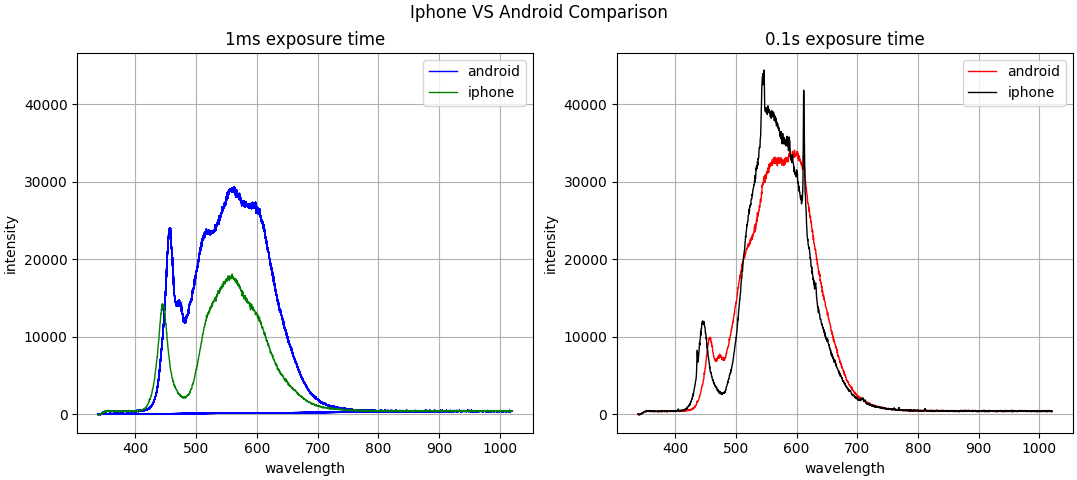
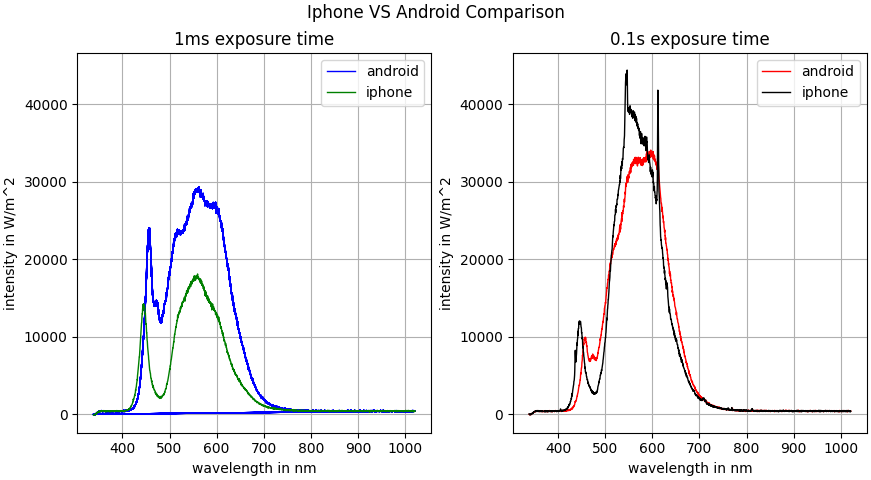
changed axis lables and added new graph gvsng

diff --git a/graphing.py b/graphing.py
@@ -11,107 +11,107 @@ import matplotlib.pyplot as plt
 
 #--------------------------------------------------------
 # Group 1 android vs iphone data
-# android_data_1ms = pd.read_csv('Formatted_raw_data\\android_1ms.txt', sep="\t", header=None, names = ["Wavelength", "Intensity"])
-# android_data = pd.read_csv('Formatted_raw_data\\android.txt', sep="\t", header=None, names = ["Wavelength", "Intensity"])
-# iphone_data_1ms = pd.read_csv('Formatted_raw_data\\iphone_1ms.txt', sep="\t", header=None, names = ["Wavelength", "Intensity"])
-# iphone_data = pd.read_csv('Formatted_raw_data\\iphone.txt', sep="\t", header=None, names = ["Wavelength", "Intensity"])
+android_data_1ms = pd.read_csv('Formatted_raw_data\\android_1ms.txt', sep="\t", header=None, names = ["Wavelength", "Intensity"])
+android_data = pd.read_csv('Formatted_raw_data\\android.txt', sep="\t", header=None, names = ["Wavelength", "Intensity"])
+iphone_data_1ms = pd.read_csv('Formatted_raw_data\\iphone_1ms.txt', sep="\t", header=None, names = ["Wavelength", "Intensity"])
+iphone_data = pd.read_csv('Formatted_raw_data\\iphone.txt', sep="\t", header=None, names = ["Wavelength", "Intensity"])
 
-# plt.subplots(layout="constrained")
-# plt.suptitle("Iphone VS Android Comparison")
+plt.subplots(layout="constrained")
+plt.suptitle("Iphone VS Android Comparison")
 
 
-# ax1 = plt.subplot(121)
-# plt.plot(android_data_1ms["Wavelength"], android_data_1ms["Intensity"], c='Blue',linewidth = 1, label = "android")
-# plt.plot(iphone_data_1ms["Wavelength"], iphone_data_1ms["Intensity"], c='Green',linewidth = 1, label = "iphone")
-# plt.xlabel("wavelength")
-# plt.ylabel("intensity")
-# plt.title("1ms exposure time")
-# plt.grid()
-# plt.legend()
+ax1 = plt.subplot(121)
+plt.plot(android_data_1ms["Wavelength"], android_data_1ms["Intensity"], c='Blue',linewidth = 1, label = "android")
+plt.plot(iphone_data_1ms["Wavelength"], iphone_data_1ms["Intensity"], c='Green',linewidth = 1, label = "iphone")
+plt.xlabel("wavelength in nm")
+plt.ylabel("intensity in W/m^2")
+plt.title("1ms exposure time")
+plt.grid()
+plt.legend()
 
-# ax2 = plt.subplot(122, sharey=ax1, sharex=ax1)
-# plt.plot(android_data["Wavelength"], android_data["Intensity"], c='Red',linewidth = 1, label = "android")
-# plt.plot(iphone_data["Wavelength"], iphone_data["Intensity"], c='Black',linewidth = 1, label = "iphone")
-# plt.xlabel("wavelength")
-# plt.ylabel("intensity")
-# plt.title("0.1s exposure time")
-# plt.legend()
-# plt.grid()
-# plt.show()
+ax2 = plt.subplot(122, sharey=ax1, sharex=ax1)
+plt.plot(android_data["Wavelength"], android_data["Intensity"], c='Red',linewidth = 1, label = "android")
+plt.plot(iphone_data["Wavelength"], iphone_data["Intensity"], c='Black',linewidth = 1, label = "iphone")
+plt.xlabel("wavelength in nm")
+plt.ylabel("intensity in W/m^2")
+plt.title("0.1s exposure time")
+plt.legend()
+plt.grid()
+plt.show()
 #--------------------------------------------------------
 
 
 #--------------------------------------------------------
 # Group 2 base noise fiber VS no fiber comparison
-# base_noise_fiber = pd.read_csv('Formatted_raw_data\\base_noise_no_fiber.txt', sep="\t", header=None, names = ["Wavelength", "Intensity"])
-# base_noise_no_fiber = pd.read_csv('Formatted_raw_data\\base_noise_with_fiber.txt', sep="\t", header=None, names = ["Wavelength", "Intensity"])
+base_noise_fiber = pd.read_csv('Formatted_raw_data\\base_noise_no_fiber.txt', sep="\t", header=None, names = ["Wavelength", "Intensity"])
+base_noise_no_fiber = pd.read_csv('Formatted_raw_data\\base_noise_with_fiber.txt', sep="\t", header=None, names = ["Wavelength", "Intensity"])
 
 
-# plt.plot(base_noise_fiber["Wavelength"], base_noise_fiber["Intensity"], c='Blue',linewidth = 0.5, label = "base noise with fiber")
-# plt.plot(base_noise_no_fiber["Wavelength"], base_noise_no_fiber["Intensity"], c='Green',linewidth = 0.5, label = "base noise no fiber")
-# plt.xlabel("wavelength")
-# plt.ylabel("intensity")
-# plt.title("0.1s exposure time for base noise measurement")
-# plt.legend()
-# plt.grid()
-# plt.show()
+plt.plot(base_noise_fiber["Wavelength"], base_noise_fiber["Intensity"], c='Blue',linewidth = 0.5, label = "base noise with fiber")
+plt.plot(base_noise_no_fiber["Wavelength"], base_noise_no_fiber["Intensity"], c='Green',linewidth = 0.5, label = "base noise no fiber")
+plt.xlabel("wavelength in nm")
+plt.ylabel("intensity in W/m^2")
+plt.title("0.1s exposure time for base noise measurement")
+plt.legend()
+plt.grid()
+plt.show()
 
 #--------------------------------------------------------
 
 #--------------------------------------------------------
 # Group 3 base light with fiber 0.1s, 5ms, 100ms and without fiber
-# base_light_no_fiber = pd.read_csv('Formatted_raw_data\\base_light_no_fiber.txt', sep="\t", header=None, names = ["Wavelength", "Intensity"])
-# base_light_with_fiber_1ms = pd.read_csv('Formatted_raw_data\\base_light_with_fiber_1ms.txt', sep="\t", header=None, names = ["Wavelength", "Intensity"])
-# base_light_with_fiber_5ms = pd.read_csv('Formatted_raw_data\\base_light_with_fiber_5ms.txt', sep="\t", header=None, names = ["Wavelength", "Intensity"])
-# base_light_with_fiber_100ms = pd.read_csv('Formatted_raw_data\\base_light_with_fiber_100ms.txt', sep="\t", header=None, names = ["Wavelength", "Intensity"])
+base_light_no_fiber = pd.read_csv('Formatted_raw_data\\base_light_no_fiber.txt', sep="\t", header=None, names = ["Wavelength", "Intensity"])
+base_light_with_fiber_1ms = pd.read_csv('Formatted_raw_data\\base_light_with_fiber_1ms.txt', sep="\t", header=None, names = ["Wavelength", "Intensity"])
+base_light_with_fiber_5ms = pd.read_csv('Formatted_raw_data\\base_light_with_fiber_5ms.txt', sep="\t", header=None, names = ["Wavelength", "Intensity"])
+base_light_with_fiber_100ms = pd.read_csv('Formatted_raw_data\\base_light_with_fiber_100ms.txt', sep="\t", header=None, names = ["Wavelength", "Intensity"])
 
-# plt.plot(base_light_no_fiber["Wavelength"], base_light_no_fiber["Intensity"], c='Black',linewidth = 0.5, label = "base light no fiber")
-# plt.plot(base_light_with_fiber_1ms["Wavelength"], base_light_with_fiber_1ms["Intensity"], c='Green',linewidth = 2, label = "base light with fiber 1ms")
-# plt.plot(base_light_with_fiber_5ms["Wavelength"], base_light_with_fiber_5ms["Intensity"], c='Red',linewidth = 1, label = "base light with fiber 5ms")
-# plt.plot(base_light_with_fiber_100ms["Wavelength"], base_light_with_fiber_100ms["Intensity"], c='Blue',linewidth = 0.5, label = "base light with fiber 100ms")
+plt.plot(base_light_no_fiber["Wavelength"], base_light_no_fiber["Intensity"], c='Black',linewidth = 0.5, label = "base light no fiber")
+plt.plot(base_light_with_fiber_1ms["Wavelength"], base_light_with_fiber_1ms["Intensity"], c='Green',linewidth = 2, label = "base light with fiber 1ms")
+plt.plot(base_light_with_fiber_5ms["Wavelength"], base_light_with_fiber_5ms["Intensity"], c='Red',linewidth = 1, label = "base light with fiber 5ms")
+plt.plot(base_light_with_fiber_100ms["Wavelength"], base_light_with_fiber_100ms["Intensity"], c='Blue',linewidth = 0.5, label = "base light with fiber 100ms")
 
-# plt.xlabel("wavelength")
-# plt.ylabel("intensity")
-# plt.title("base light measurement with different exposure times")
-# plt.legend()
-# plt.grid()
+plt.xlabel("wavelength in nm")
+plt.ylabel("intensity in W/m^2")
+plt.title("base light measurement with different exposure times")
+plt.legend()
+plt.grid()
 
-# plt.show()
+plt.show()
 #--------------------------------------------------------
 
 #--------------------------------------------------------
 # Group 4 LED distance comparison in intensity
-# LED_red_10_5cm = pd.read_csv('Formatted_raw_data\\LED_red_10.5cm.txt', sep="\t", header=None, names = ["Wavelength", "Intensity"])
-# LED_red_10_cm = pd.read_csv('Formatted_raw_data\\LED_red_10cm.txt', sep="\t", header=None, names = ["Wavelength", "Intensity"])
+LED_red_10_5cm = pd.read_csv('Formatted_raw_data\\LED_red_10.5cm.txt', sep="\t", header=None, names = ["Wavelength", "Intensity"])
+LED_red_10_cm = pd.read_csv('Formatted_raw_data\\LED_red_10cm.txt', sep="\t", header=None, names = ["Wavelength", "Intensity"])
 
-# plt.plot(LED_red_10_5cm["Wavelength"], LED_red_10_5cm["Intensity"], c='Black',linewidth = 2, label = "10.5cm away - non saturated")
-# plt.plot(LED_red_10_cm["Wavelength"], LED_red_10_cm["Intensity"], c='Green',linewidth = 2, label = "10cm away - saturated")
+plt.plot(LED_red_10_5cm["Wavelength"], LED_red_10_5cm["Intensity"], c='Black',linewidth = 2, label = "10.5cm away - non saturated")
+plt.plot(LED_red_10_cm["Wavelength"], LED_red_10_cm["Intensity"], c='Green',linewidth = 2, label = "10cm away - saturated")
 
-# plt.xlabel("wavelength")
-# plt.ylabel("intensity")
-# plt.title("LED intensity measurements from two distances")
-# plt.legend()
-# plt.grid()
+plt.xlabel("wavelength in nm")
+plt.ylabel("intensity in W/m^2")
+plt.title("LED intensity measurements from two distances")
+plt.legend()
+plt.grid()
 
-# plt.show()
+plt.show()
 
 #--------------------------------------------------------
 
 #--------------------------------------------------------
 # Group 5 optical filter measurements
-# optical_filter_min = pd.read_csv('Formatted_raw_data\\optical_filter_min.txt', sep="\t", header=None, names = ["Wavelength", "Intensity"])
-# optical_filter_max = pd.read_csv('Formatted_raw_data\\optical_filter_max.txt', sep="\t", header=None, names = ["Wavelength", "Intensity"])
+optical_filter_min = pd.read_csv('Formatted_raw_data\\optical_filter_min.txt', sep="\t", header=None, names = ["Wavelength", "Intensity"])
+optical_filter_max = pd.read_csv('Formatted_raw_data\\optical_filter_max.txt', sep="\t", header=None, names = ["Wavelength", "Intensity"])
 
-# plt.plot(optical_filter_min["Wavelength"], optical_filter_min["Intensity"], c='Blue',linewidth = 2, label = "optical filter min 1ms")
-# plt.plot(optical_filter_max["Wavelength"], optical_filter_max["Intensity"], c='Green',linewidth = 2, label = "optical filter max 1ms")
+plt.plot(optical_filter_min["Wavelength"], optical_filter_min["Intensity"], c='Blue',linewidth = 2, label = "optical filter min 1ms")
+plt.plot(optical_filter_max["Wavelength"], optical_filter_max["Intensity"], c='Green',linewidth = 2, label = "optical filter max 1ms")
 
-# plt.xlabel("wavelength")
-# plt.ylabel("intensity")
-# plt.title("Optical filter measurements from maximum to minimum")
-# plt.legend()
-# plt.grid()
+plt.xlabel("wavelength in nm")
+plt.ylabel("intensity in W/m^2")
+plt.title("Optical filter measurements from maximum to minimum")
+plt.legend()
+plt.grid()
 
-# plt.show()
+plt.show()
 #--------------------------------------------------------
 
 #--------------------------------------------------------
@@ -120,11 +120,28 @@ optical_glasses = pd.read_csv('Formatted_raw_data\\optical_glasses_800ms.txt', s
 
 plt.plot(optical_glasses["Wavelength"], optical_glasses["Intensity"], c='Red',linewidth = 2, label = "optical glasses 800ms")
 
-plt.xlabel("wavelength")
-plt.ylabel("intensity")
+plt.xlabel("wavelength in nm")
+plt.ylabel("intensity in W/m^2")
 plt.title("Optical Glasses")
 plt.legend()
 plt.grid()
 
 plt.show()
 #--------------------------------------------------------
+
+# Group 6 comparing the optical gasses and regular LED 10cm away
+
+
+optical_glasses = pd.read_csv('Formatted_raw_data\\optical_glasses_800ms.txt', sep="\t", header=None, names = ["Wavelength", "Intensity"])
+LED_red_10_5cm = pd.read_csv('Formatted_raw_data\\LED_red_10.5cm.txt', sep="\t", header=None, names = ["Wavelength", "Intensity"])
+
+plt.plot(optical_glasses["Wavelength"], optical_glasses["Intensity"], c='Red',linewidth = 2, label = "optical glasses 800ms")
+plt.plot(LED_red_10_5cm["Wavelength"], LED_red_10_5cm["Intensity"], c='Black',linewidth = 2, label = "10.5cm away - non saturated")
+
+plt.xlabel("wavelength in nm")
+plt.ylabel("intensity in W/m^2")
+plt.title("Optical Glasses VS No glasses")
+plt.legend()
+plt.grid()
+
+plt.show()
